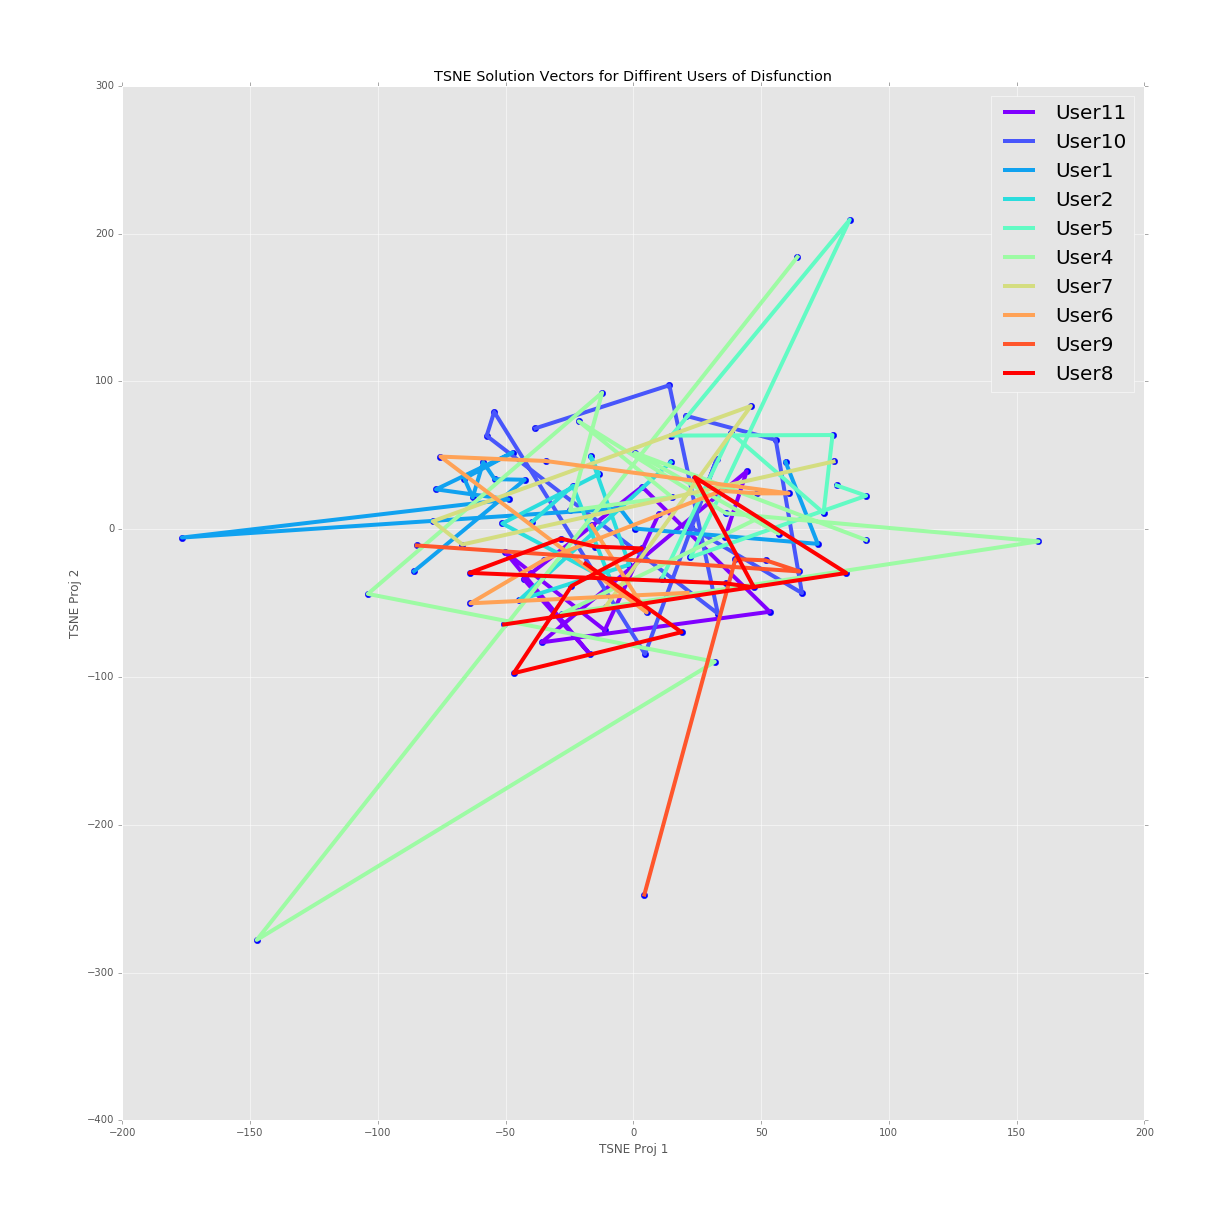
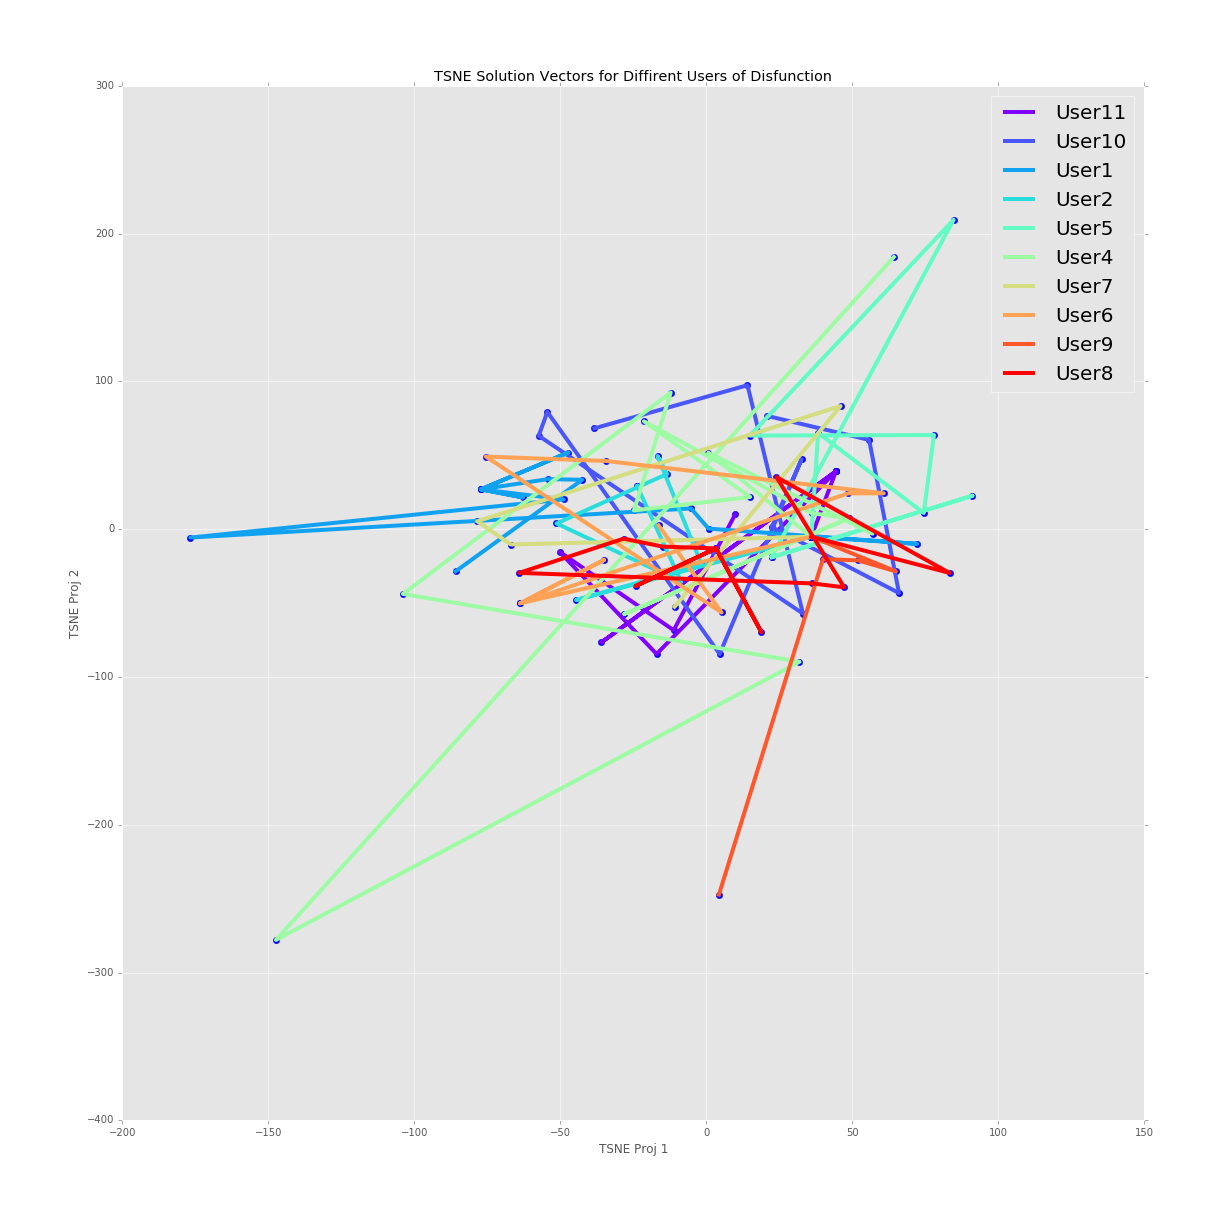
updates

Changed region(s): [[0.2173, 0.1863, 0.8382, 0.7141], [0.2173, 0.6209, 0.3725, 0.7761], [0.5899, 0.6209, 0.6209, 0.7141]]

diff --git a/readLogFiles.py b/readLogFiles.py
@@ -247,19 +247,19 @@ fig = plt.figure(figsize=(17,17))
 ax = fig.add_subplot(111)
 
 for color, logID in zip(colors,MDSresultDict.keys()):
-    if logID != '4': continue
     name = 'User' + logID
+    if logID not in ['2','6','7','9']: continue
     MDSVals = MDSresultDict[logID]
     ax.scatter(MDSVals[:,0], MDSVals[:,1], color = 'b', s=40)
     ax.plot(MDSVals[:,0], MDSVals[:,1], '-', color = color, label = name, linewidth=4)
 
 
 ax.legend()
-plt.xlabel('MDS Proj 1'); plt.ylabel('MDS Proj 2')
-plt.title('MDS Solution Vectors for Diffirent Users of Disfunction')
+plt.xlabel('TSNE Proj 1'); plt.ylabel('TSNE Proj 2')
+plt.title('TSNE Solution Vectors for Diffirent Users of Disfunction')
 plt.legend(prop={'size':20}, bbox_to_anchor=(1,1))
 plt.tight_layout(pad=7)
-plt.savefig('./MDSOutput.png')
+plt.savefig('./TSNEOutput.png')
 
     
 
